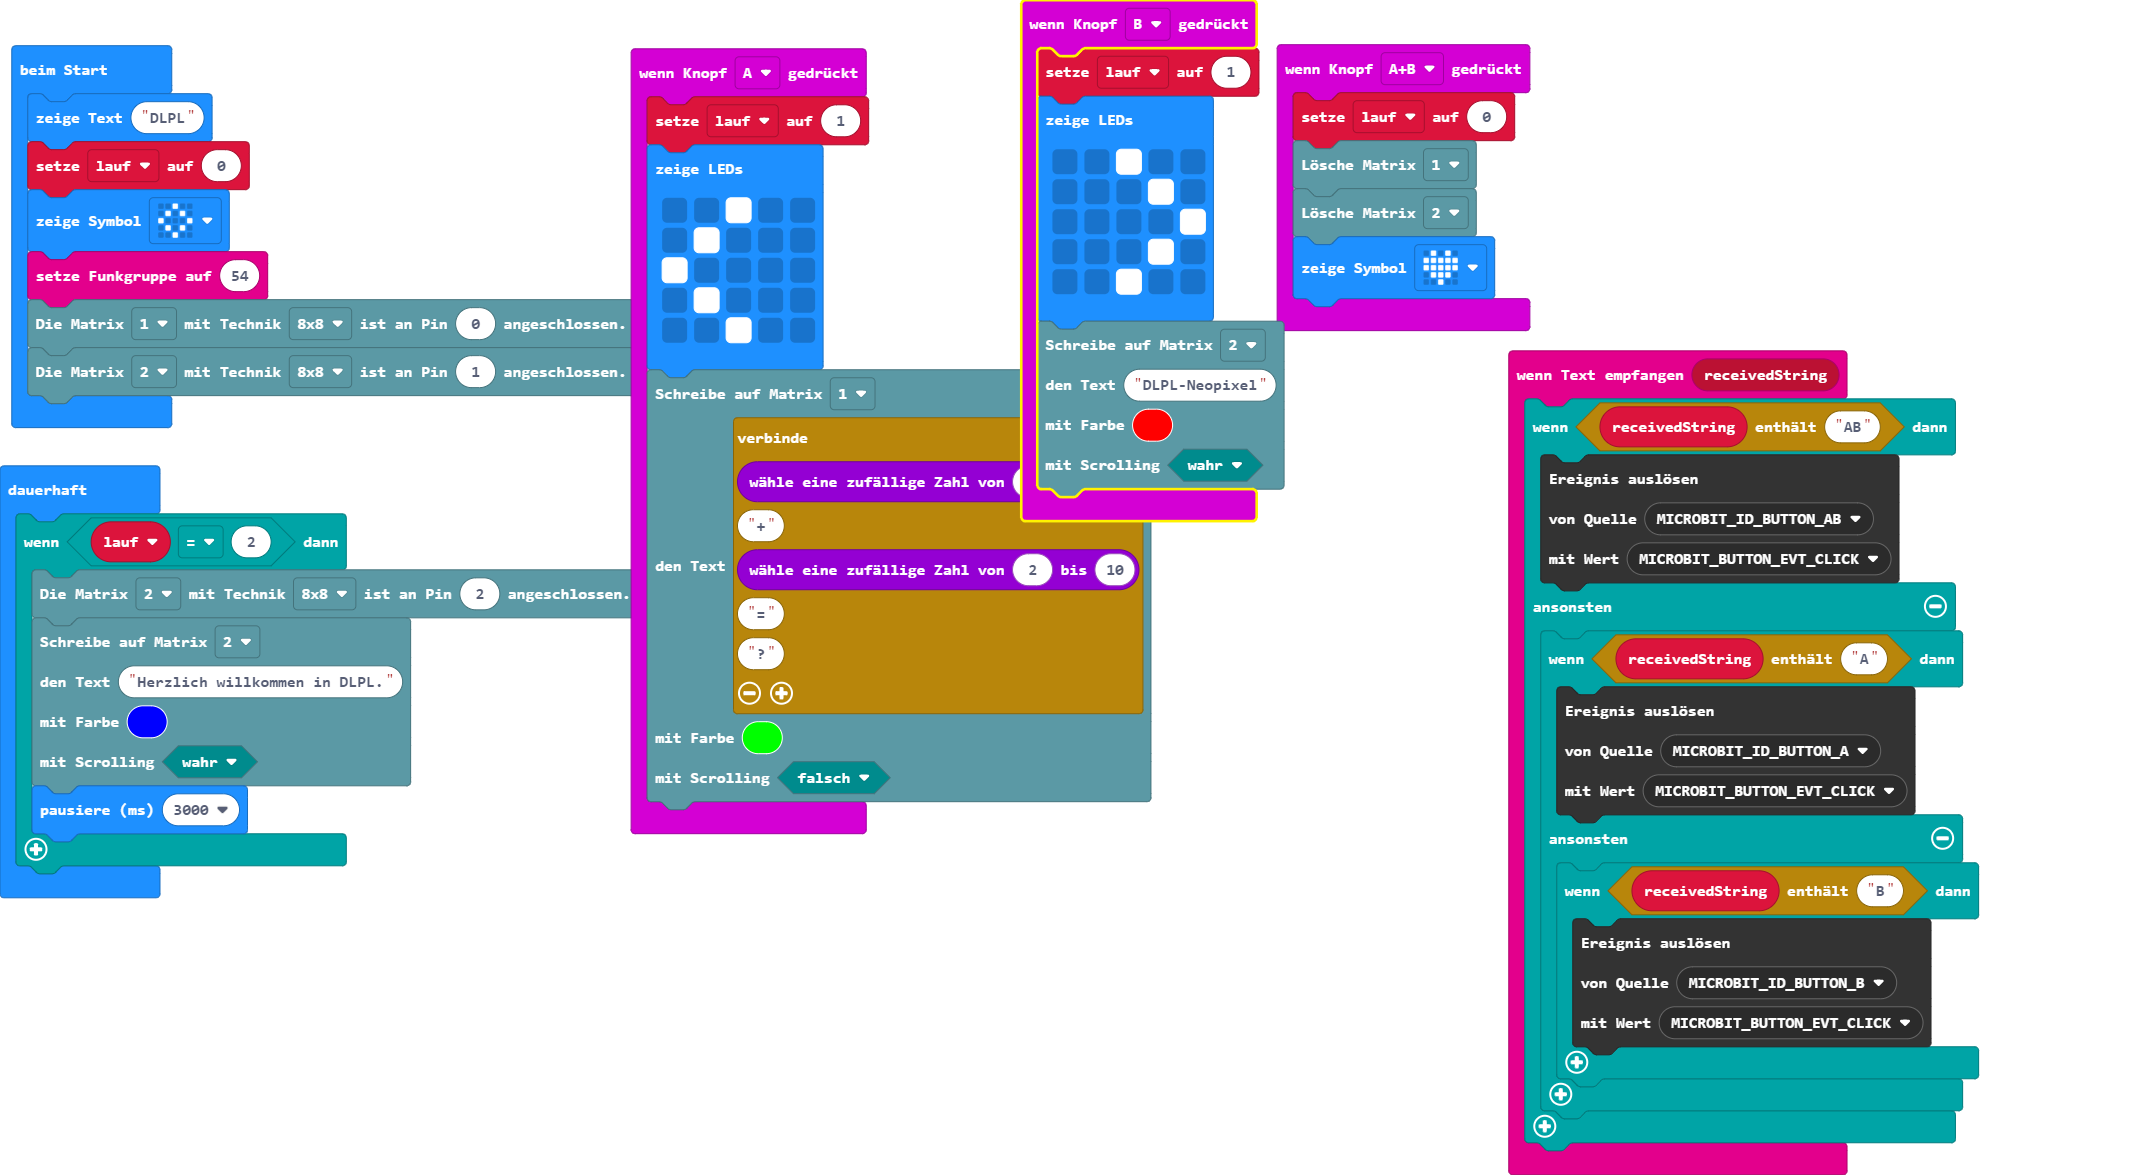
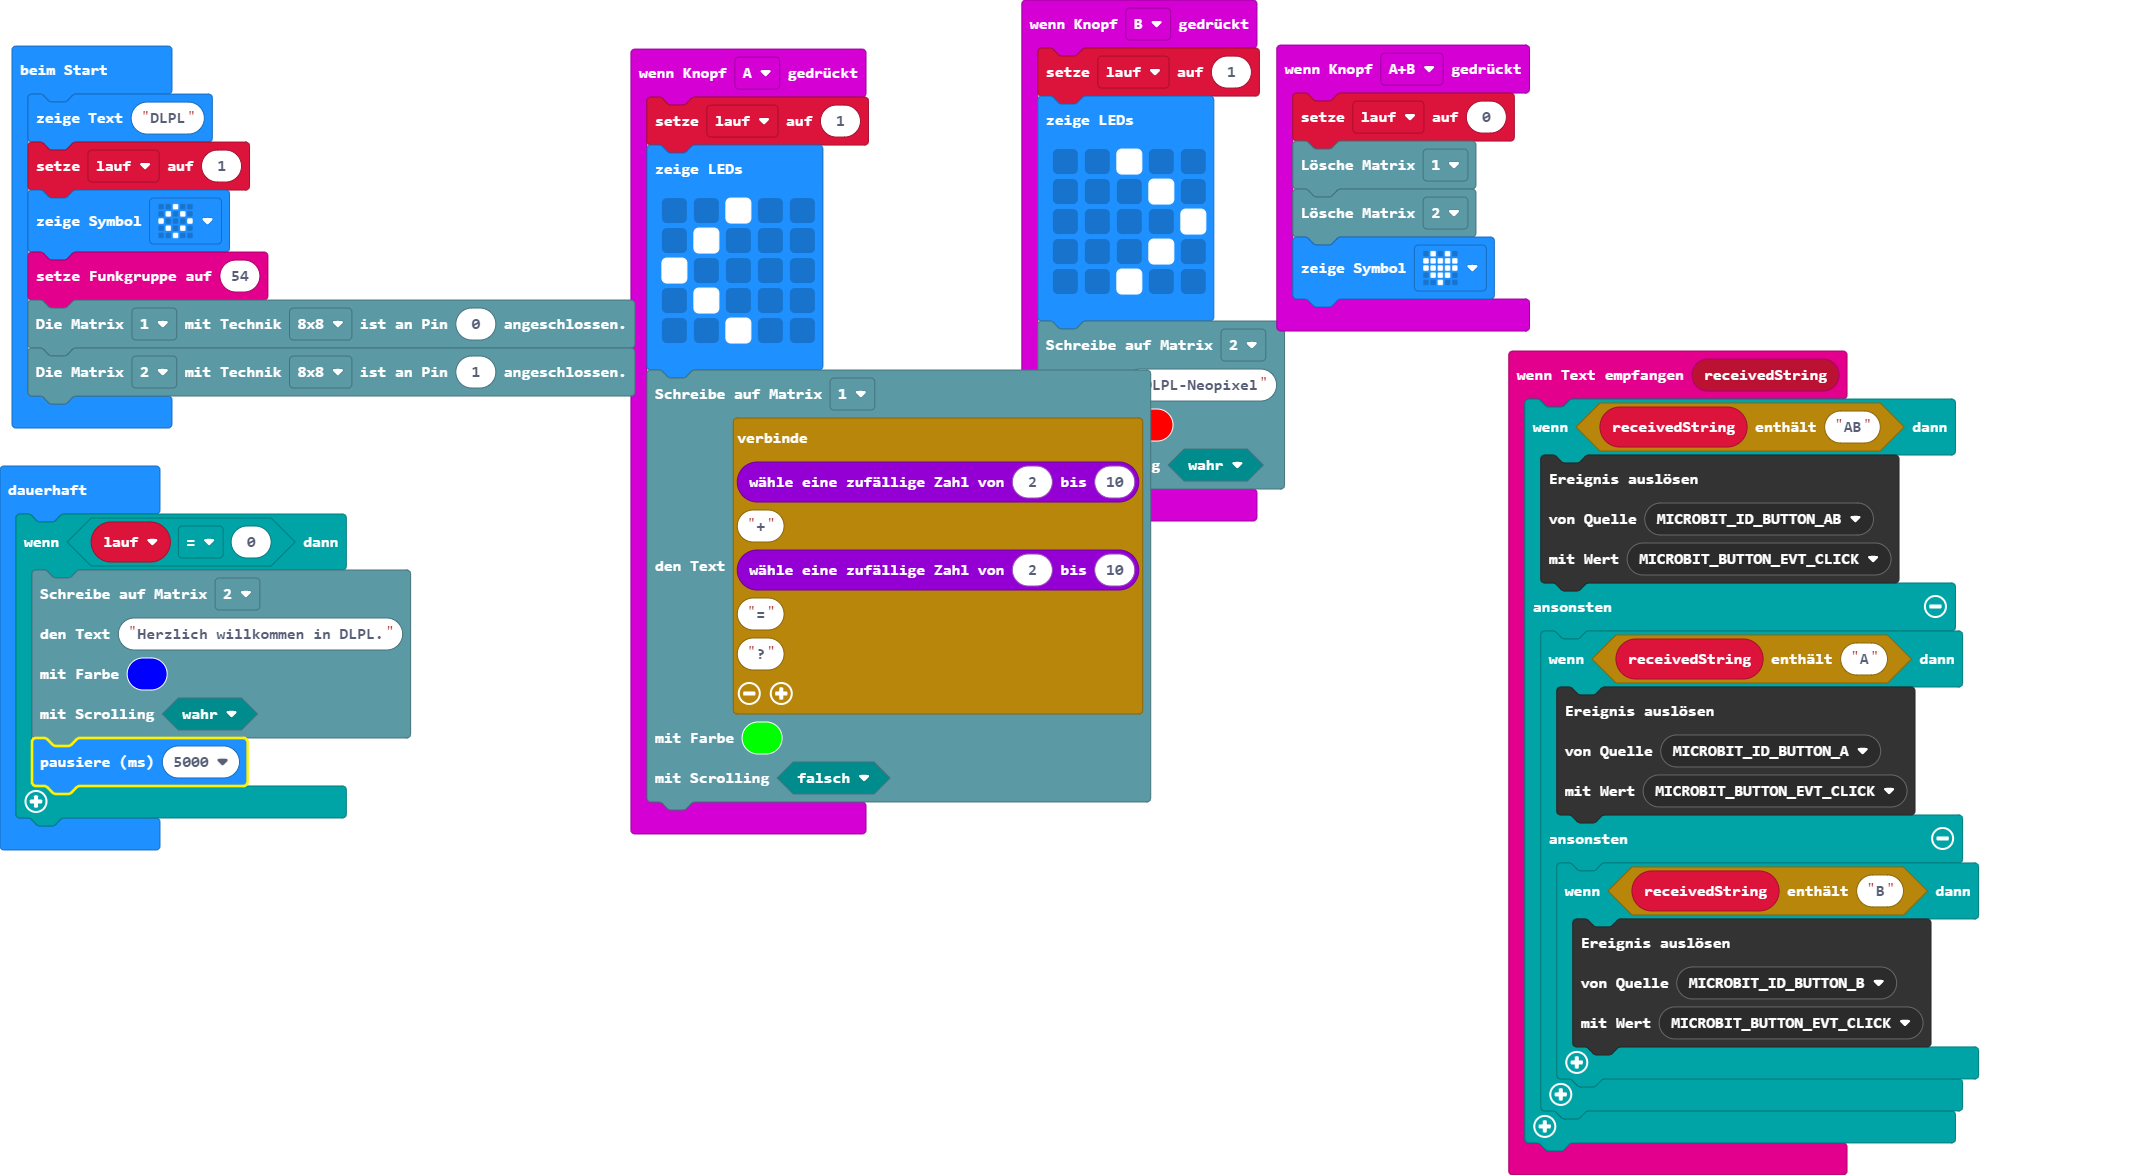
Aktualisiere main.blocks, main.ts

diff --git a/main.ts b/main.ts
@@ -60,20 +60,19 @@ input.onButtonPressed(Button.B, function () {
 })
 let lauf = 0
 basic.showString("DLPL")
-lauf = 0
+lauf = 1
 basic.showIcon(IconNames.Diamond)
 radio.setGroup(54)
 DLPLmatrix.definitionMatrix(nrMatrix.zentral, HWMatrix.m2, 0)
 DLPLmatrix.definitionMatrix(nrMatrix.links, HWMatrix.m2, 1)
 basic.forever(function () {
-    if (lauf == 2) {
-        DLPLmatrix.definitionMatrix(nrMatrix.links, HWMatrix.m2, 2)
+    if (lauf == 0) {
         DLPLmatrix.schreibeText(
         nrMatrix.links,
         "Herzlich willkommen in DLPL.",
         0x0000ff,
         true
         )
-        basic.pause(3000)
+        basic.pause(5000)
     }
 })
